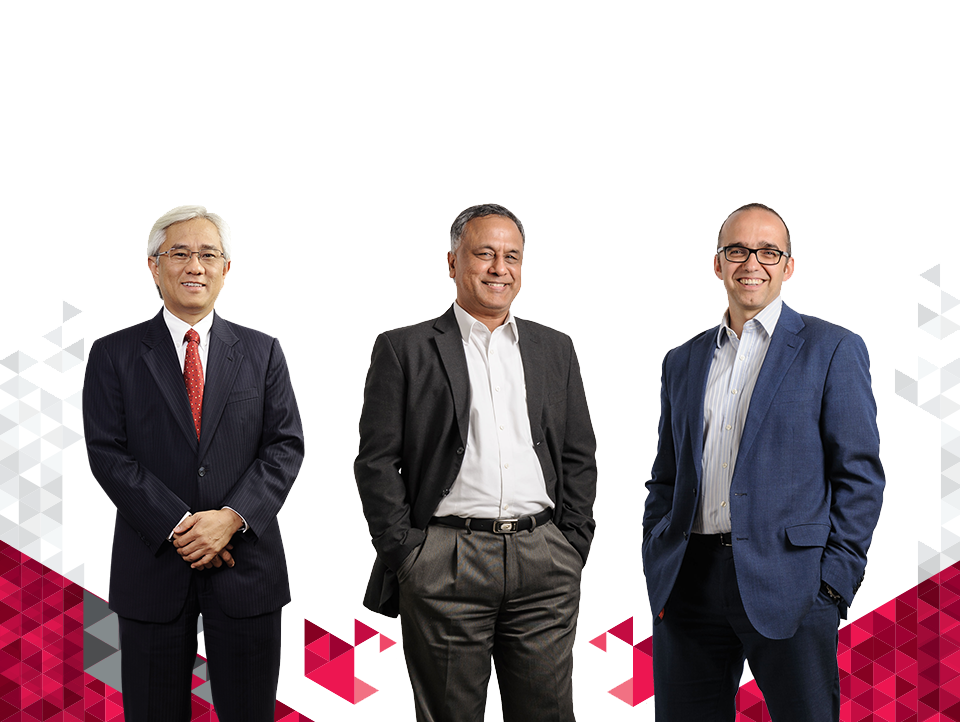
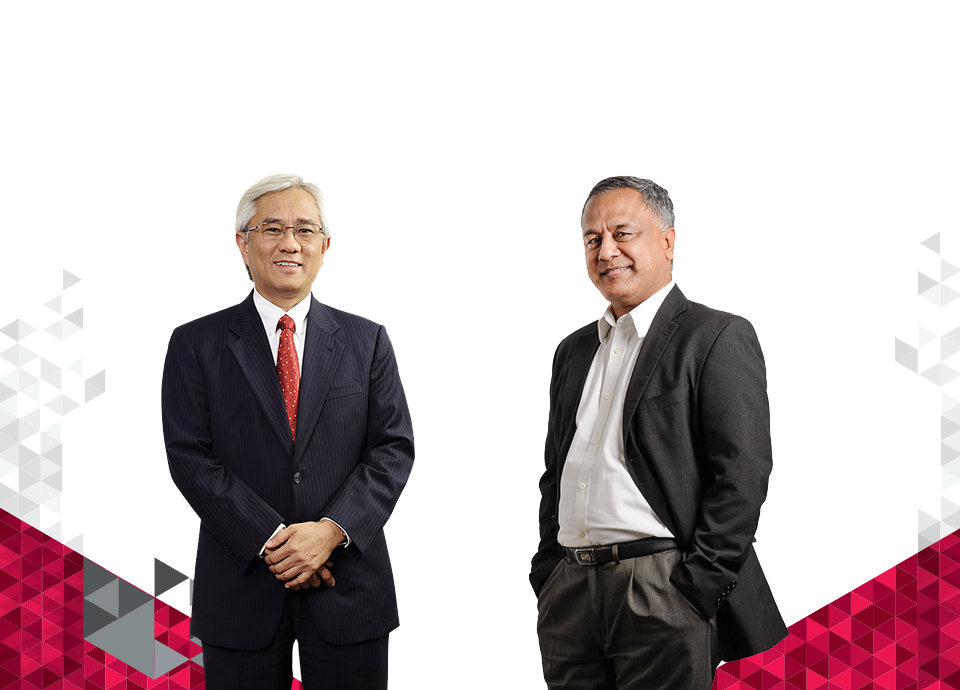
creating new management profile

diff --git a/ar/corporate profile/axiata'14_02_management team.html b/ar/corporate profile/axiata'14_02_management team.html
@@ -94,8 +94,7 @@
 			<div class="section3">
 				<img class="plusButton" id="plusButton1" src="../assets/img/chapter4/section2/plus.png" data-url="../board/11.html" />
 				<img class="plusButton" id="plusButton2" src="../assets/img/chapter4/section2/plus.png" data-url="../board/12.html" />
-				<img class="plusButton" id="plusButton3" src="../assets/img/chapter4/section2/plus.png" data-url="../board/13.html" />
-				<h1 class="header1">Profile of</h1>
+				<h1 class="header1">Group</h1>
 				<h1 class="header2">Management Team</h1>
 				<div class="name1">
 					<p class="text"> 
@@ -111,73 +110,80 @@
 						Group Chief Financial Officer
 					</p>
 				</div>
-				<div class="name3">
+				
+			</div>
+			
+			<div class="section4">
+				<img class="plusButton" id="plusButton1" src="../assets/img/chapter4/section2/plus.png" data-url="../board/13.html" />
+				<img class="plusButton" id="plusButton2" src="../assets/img/chapter4/section2/plus.png" data-url="../board/14.html" />
+				<img class="plusButton" id="plusButton3" src="../assets/img/chapter4/section2/plus.png" data-url="../board/15.html" />
+				
+				<div class="name1">
 					<p class="text"> 
 						<img class="arr" src="../assets/img/chapter4/board/arrow.png" />
 						<span class="purple">René Werner</span> <br/>
 						Group Chief Strategy Officer
 					</p>
 				</div>
-			</div>
-			
-			<div class="section4">
-				<img class="plusButton" id="plusButton1" src="../assets/img/chapter4/section2/plus.png" data-url="../board/14.html" />
-				<img class="plusButton" id="plusButton2" src="../assets/img/chapter4/section2/plus.png" data-url="../board/15.html" />
-				<img class="plusButton" id="plusButton3" src="../assets/img/chapter4/section2/plus.png" data-url="../board/16.html" />
-				<h1 class="header1">Profile of</h1>
-				<h1 class="header2">Management Team</h1>
-				<div class="name1">
+				<div class="name2">
 					<p class="text"> 
 						<img class="arr" src="../assets/img/chapter4/board/arrow.png" />
 						<span class="purple">Amandeep Singh</span> <br/>
 						Group Chief Technology Officer
 					</p>
 				</div>
-				<div class="name2">
+				<div class="name3">
 					<p class="text"> 
 						<img class="arr" src="../assets/img/chapter4/board/arrow.png" />
 						<span class="purple">Annis Sheikh Mohamed</span> <br/>
 						Head, Corporate Development
 					</p>
 				</div>
-				<div class="name3">
+			</div>
+			
+			<div class="section5">
+				<img class="plusButton" id="plusButton1" src="../assets/img/chapter4/section2/plus.png" data-url="../board/16.html" />
+				<img class="plusButton" id="plusButton2" src="../assets/img/chapter4/section2/plus.png" data-url="../board/17.html" />
+				<img class="plusButton" id="plusButton3" src="../assets/img/chapter4/section2/plus.png" data-url="../board/18.html" />
+				<h1 class="header1">Profile of</h1>
+				<h1 class="header2">Management Team</h1>
+				<div class="name1">
 					<p class="text"> 
 						<img class="arr" src="../assets/img/chapter4/board/arrow.png" />
 						<span class="purple">Darke M Sani</span> <br/>
 						Group Chief Human Resources Officer
 					</p>
 				</div>
-			</div>
-			
-			<div class="section5">
-				<img class="plusButton" id="plusButton1" src="../assets/img/chapter4/section2/plus.png" data-url="../board/17.html" />
-				<img class="plusButton" id="plusButton2" src="../assets/img/chapter4/section2/plus.png" data-url="../board/18.html" />
-				<img class="plusButton" id="plusButton3" src="../assets/img/chapter4/section2/plus.png" data-url="../board/19.html" />
-				<img class="plusButton" id="plusButton4" src="../assets/img/chapter4/section2/plus.png" data-url="../board/20.html" />
-				<h1 class="header1">Profile of</h1>
-				<h1 class="header2">Management Team</h1>
-				<div class="name1">
+				<div class="name2">
 					<p class="text"> 
 						<img class="arr" src="../assets/img/chapter4/board/arrow.png" />
-						<span class="purple">Datin Badrunnisa Mohd Yasin Khan</span> <br/>
+						<span class="purple">Datin Sri Badrunnisa Mohd Yasin Khan</span> <br/>
 						Group Chief Talent Officer
 					</p>
 				</div>
-				<div class="name2">
+				<div class="name3">
 					<p class="text"> 
 						<img class="arr" src="../assets/img/chapter4/board/arrow.png" />
 						<span class="purple">Mohamad Idham Nawawi</span> <br/>
 						Group Chief Corporate Officer
 					</p>
 				</div>
-				<div class="name3">
+				
+			</div>
+
+			<div class="section5_1">
+				
+				<img class="plusButton" id="plusButton1" src="../assets/img/chapter4/section2/plus.png" data-url="../board/19.html" />
+				<img class="plusButton" id="plusButton2" src="../assets/img/chapter4/section2/plus.png" data-url="../board/20.html" />
+				
+				<div class="name1">
 					<p class="text"> 
 						<img class="arr" src="../assets/img/chapter4/board/arrow.png" />
 						<span class="purple">Suryani Hussein</span> <br/>
 						Group Company Secretary
 					</p>
 				</div>
-				<div class="name4">
+				<div class="name2">
 					<p class="text"> 
 						<img class="arr" src="../assets/img/chapter4/board/arrow.png" />
 						<span class="purple">Tan Gim Boon</span> <br/>
@@ -312,6 +318,15 @@
 				.addTo(controller);
 		}
 		
+		new ScrollMagic.Scene({
+					triggerElement: '.section5_1',
+					triggerHook: 'onLeave',
+					offset: -90,
+					duration:730
+				})
+				.setPin('.section5_1',{pushFollowers: false})
+				.addTo(controller);
+
 		//slide(1);
 		//alert(currentDivId);
 		

diff --git a/ar/assets/css/chapter4.css b/ar/assets/css/chapter4.css
@@ -183,13 +183,14 @@
 
 .section3 #plusButton1
 {
-	margin: 345px 0 0 260px;
+	margin: 380px 0 0 370px;
 }
 
 .section3 #plusButton2
 {
-	margin: 345px 0 0 550px;
+	margin: 380px 0 0 730px;
 }
+
 
 .section3 #plusButton3
 {
@@ -221,7 +222,7 @@
 	font-size:13.5px;
 	font-family:axiataBook;
 	width:245px;
-	margin:0 0 0 90px;
+	margin:0 0 0 180px;
 	color:#4d4d4f;
 }
 .section3 .name2
@@ -229,7 +230,7 @@
 	font-size:13.5px;
 	font-family:axiataBook;
 	width:245px;
-	margin:-72px 0 0 380px;
+	margin:-72px 0 0 540px;
 	color:#4d4d4f;
 }
 
@@ -315,7 +316,7 @@
 	font-size:13.5px;
 	font-family:axiataBook;
 	width:245px;
-	margin:0 0 0 90px;
+	margin:110px 0 0 90px;
 	color:#4d4d4f;
 }
 .section4 .name2
@@ -368,18 +369,19 @@
 
 .section5 #plusButton1
 {
-	margin: 330px 0 0 170px;
+	margin: 385px 0 0 260px;
 }
 
 .section5 #plusButton2
 {
-	margin: 330px 0 0 410px;
+	margin: 385px 0 0 550px;
 }
 
 .section5 #plusButton3
 {
-	margin: 330px 0 0 630px;
+	margin: 385px 0 0 855px;
 }
+
 
 .section5 #plusButton4
 {
@@ -411,16 +413,16 @@
 {
 	font-size:13.5px;
 	font-family:axiataBook;
-	width:150px;
-	margin:-30px 0 0 80px;
+	width:245px;
+	margin:-40px 0 0 90px;
 	color:#4d4d4f;
 }
 .section5 .name2
 {
 	font-size:13.5px;
 	font-family:axiataBook;
-	width:150px;
-	margin:-92px 0 0 300px;
+	width:245px;
+	margin:-72px 0 0 380px;
 	color:#4d4d4f;
 }
 
@@ -428,8 +430,8 @@
 {
 	font-size:13.5px;
 	font-family:axiataBook;
-	width:210px;
-	margin:-92px 0 0 490px;
+	width:245px;
+	margin:-72px 0 0 680px;
 	color:#4d4d4f;
 }
 
@@ -448,6 +450,112 @@
 }
 
 .section5 .arr
+{
+	margin-left:-16px;
+	
+}
+
+
+.section5_1
+{
+	width:960px;
+	min-height:730px;
+	margin:0 auto;
+	overflow:hidden;
+	background:#ffffff url("../img/chapter4/section5/background2.png") no-repeat bottom left;
+		margin-bottom: 90px;
+
+}
+
+.section5_1 .plusButton
+{
+	cursor:pointer;
+	display:block;
+	position:absolute;
+}
+
+.section5_1 #plusButton1
+{
+	margin: 390px 0 0 390px;
+}
+
+.section5_1 #plusButton2
+{
+	margin: 390px 0 0 750px;
+}
+
+.section5_1 #plusButton3
+{
+	margin: 330px 0 0 630px;
+}
+
+.section5_1 #plusButton4
+{
+	margin: 330px 0 0 840px;
+}
+
+
+.section5_1 .header1
+{
+	font-size:25px;
+	font-family:axiataBold;
+	color:#8a8c8e;
+	margin-left:50px;
+	padding-top:40px;
+	z-index:100;
+	opacity:0;
+}
+.section5_1 .header2
+{
+	font-size:32px;
+	font-family:axiataBold;
+	color:#c40d42;
+	margin-left:50px;
+	margin-top:-20px;
+	z-index:101;
+	opacity:0;
+}
+.section5_1 .name1
+{
+	font-size:13.5px;
+	font-family:axiataBook;
+	width:150px;
+	margin:80px 0 0 250px;
+	color:#4d4d4f;
+}
+.section5_1 .name2
+{
+	font-size:13.5px;
+	font-family:axiataBook;
+	width:150px;
+	margin:-72px 0 0 640px;
+	color:#4d4d4f;
+}
+
+.section5_1 .name3
+{
+	font-size:13.5px;
+	font-family:axiataBook;
+	width:210px;
+	margin:-92px 0 0 490px;
+	color:#4d4d4f;
+}
+
+.section5_1 .name4
+{
+	font-size:13.5px;
+	font-family:axiataBook;
+	width:180px;
+	margin:-52px 0 0 740px;
+	color:#4d4d4f;
+}
+.section5_1 .purple
+{
+	color:#c40c42;
+	font-weight:bold;
+}
+
+.section5_1 .arr
 {
 	margin-left:-16px;
 	
